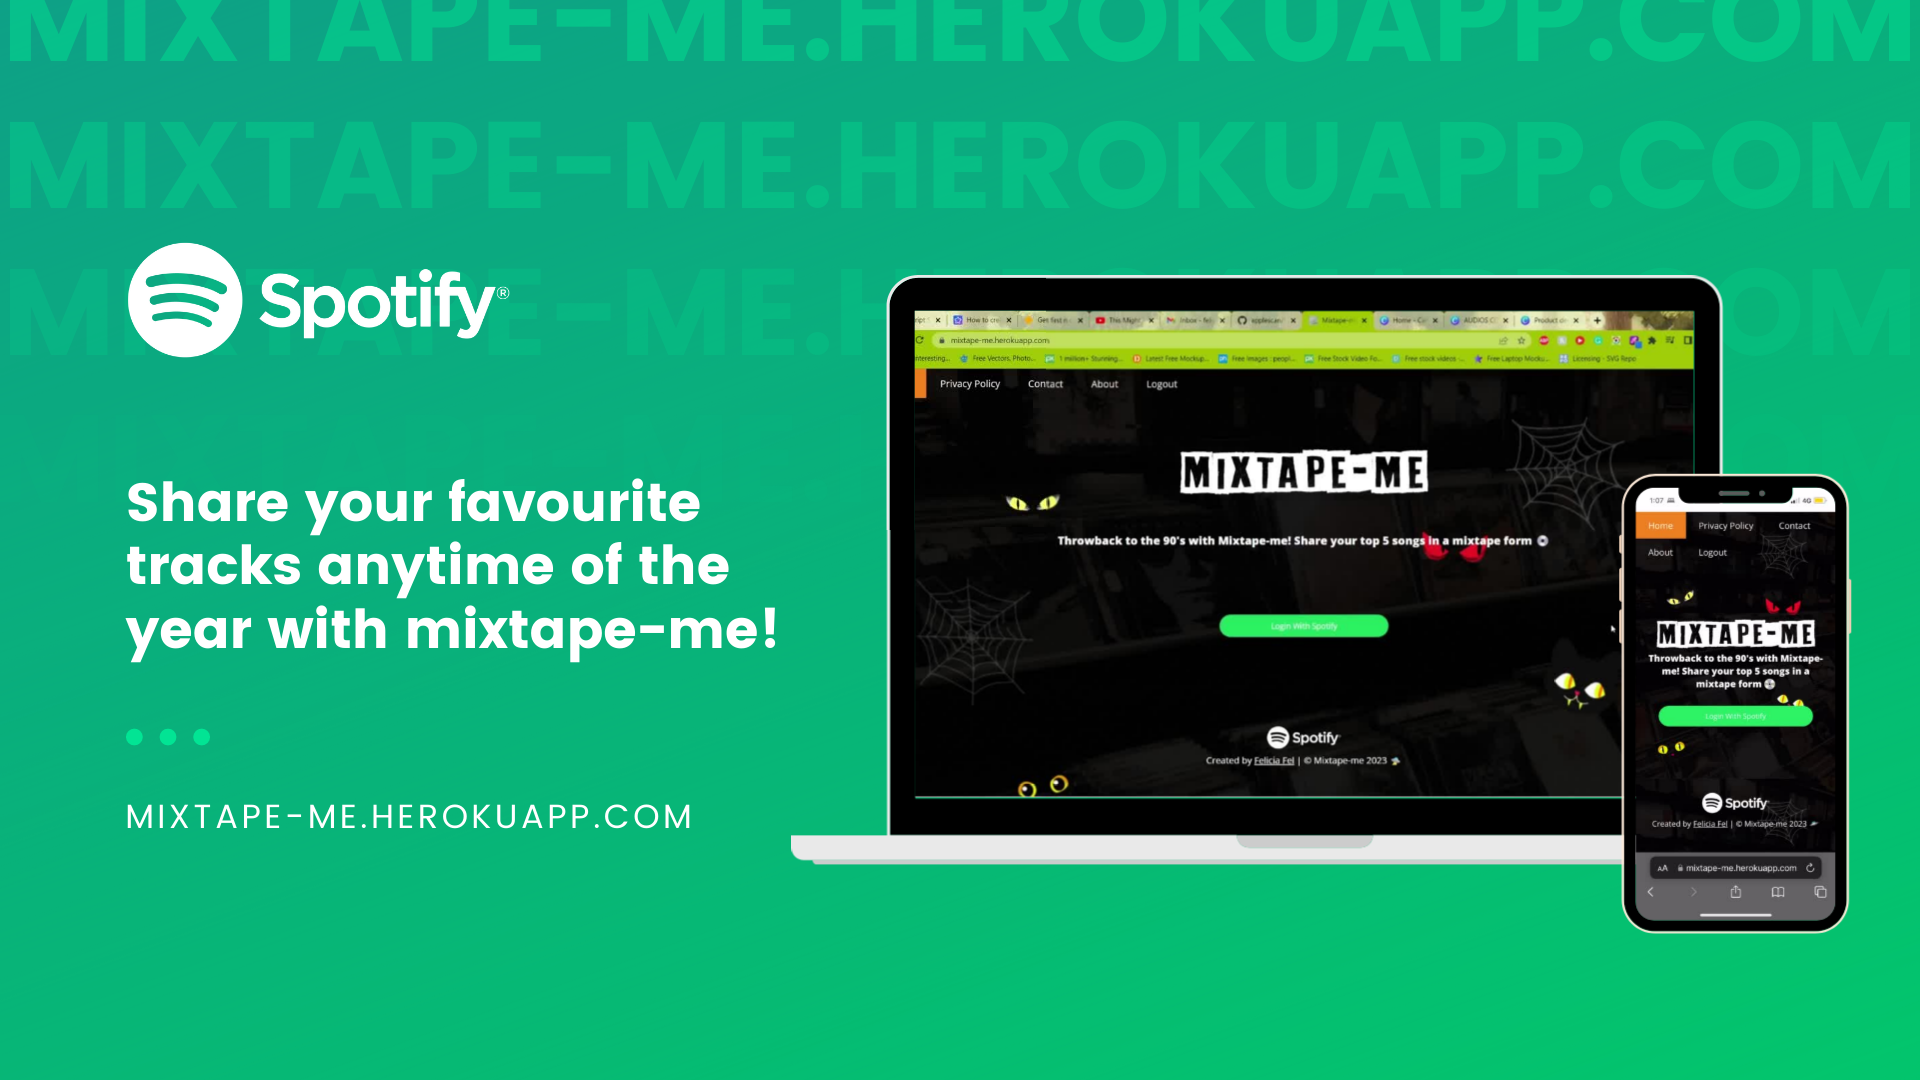
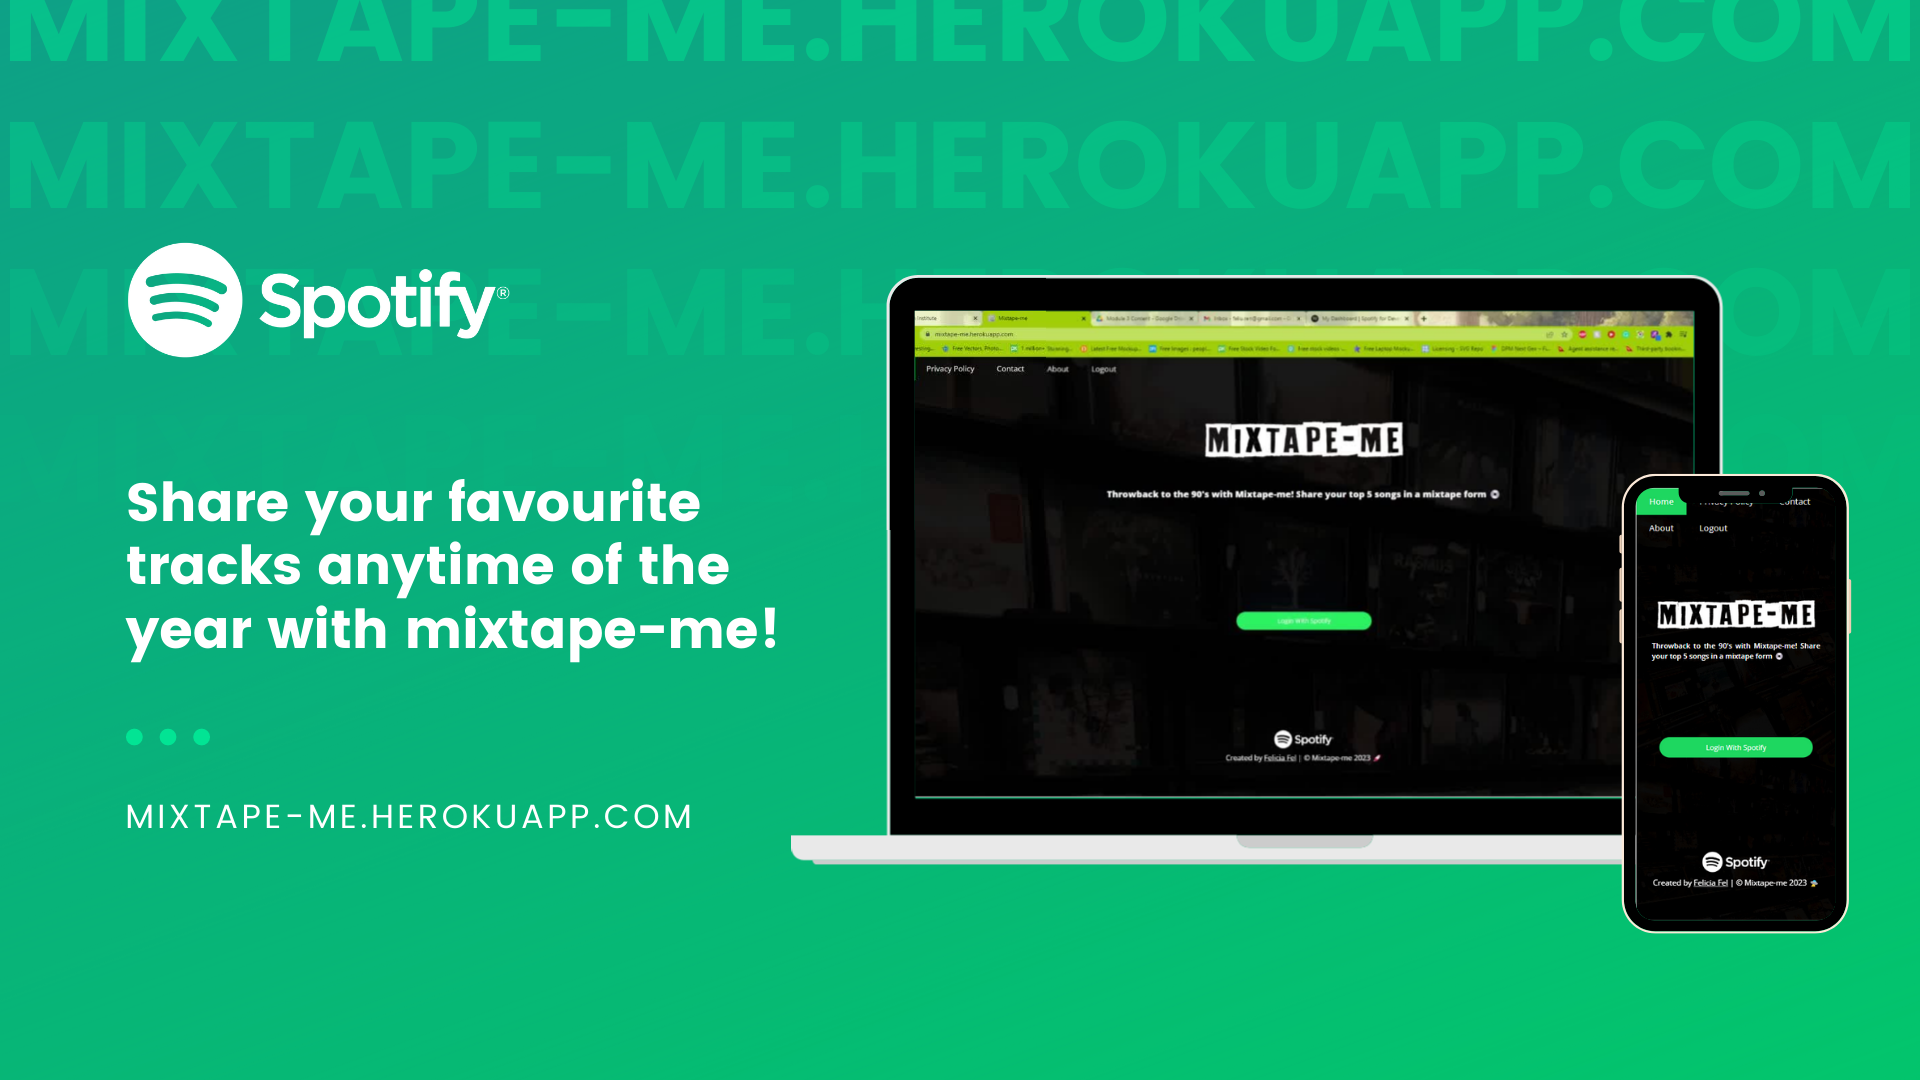
back to normal theme

diff --git a/public/style.css b/public/style.css
@@ -9,7 +9,7 @@ html {
 }
 
 body {
-  background-image: url("pc-bg.gif");
+  background-image: url("bg.jpg");
   background-size: cover;
   text-align: center;
   font-family: 'Open Sans', sans-serif;
@@ -140,7 +140,7 @@ h2 {
 }
 
 .spotify-button {
-  background-color: #881EE4;
+  background-color: #1ed760;
   color: white;
   border-radius: 500px;
   font-size: 14px;
@@ -151,6 +151,7 @@ h2 {
   margin-bottom: 20px;
   padding: 10px 50px 10px 50px;
 }
+
 
 .takepic-button {
   background-color: black;
@@ -185,13 +186,7 @@ h2 {
 
 .spotify-button:hover,
 .spotify-button:focus,
-.spotify-button:active {
-  text-decoration: none;
-  color: #881EE4;
-  background-color: #dbbcf5;
-}
-
-
+.spotify-button:active,
 .login-spotify-button:hover,
 .login-spotify-button:focus,
 .login-spotify-button:active {
@@ -204,8 +199,8 @@ h2 {
 .takepic-button:focus,
 .takepic-button:active {
   text-decoration: none;
-  color: #dbbcf5;
-  border: #dbbcf5 2px solid;
+  color: #bdffd4;
+  border: #bdffd4 2px solid;
 }
 
 input {
@@ -285,7 +280,7 @@ a:focus {
 }
 
 .topnav a.active {
-  background-color: #F4831B;
+  background-color: #1ed760;
   color: white;
 }
 
@@ -302,7 +297,7 @@ a:focus {
 @media only screen and (max-width: 700px) {
 
   body {
-    background-image: url("pc-bg.gif");
+    background-image: url("bg.jpg");
     background-size: cover;
     text-align: center;
   }

diff --git a/public/index.html b/public/index.html
@@ -68,7 +68,7 @@
         </footer>
       </div>
 
-      <div id="loggedin" style="background-image:url('bg.gif'); background-size: contain;">
+      <div id="loggedin" style="background-image:url('bg.jpg'); background-size: contain;">
 
         <!--Top menu-->
         <div class="topnav" id="myTopnav">
@@ -117,7 +117,7 @@
 
         <!--Top tracks arrays-->
 
-        <div id="capture" style="background-image:url('bg.gif'); background-size: contain;">
+        <div id="capture" style="background-image:url('bg.jpg'); background-size: contain;">
           <section>
             <input type="radio" id="div1" name="tab-nav" checked />
             <div class="display">
